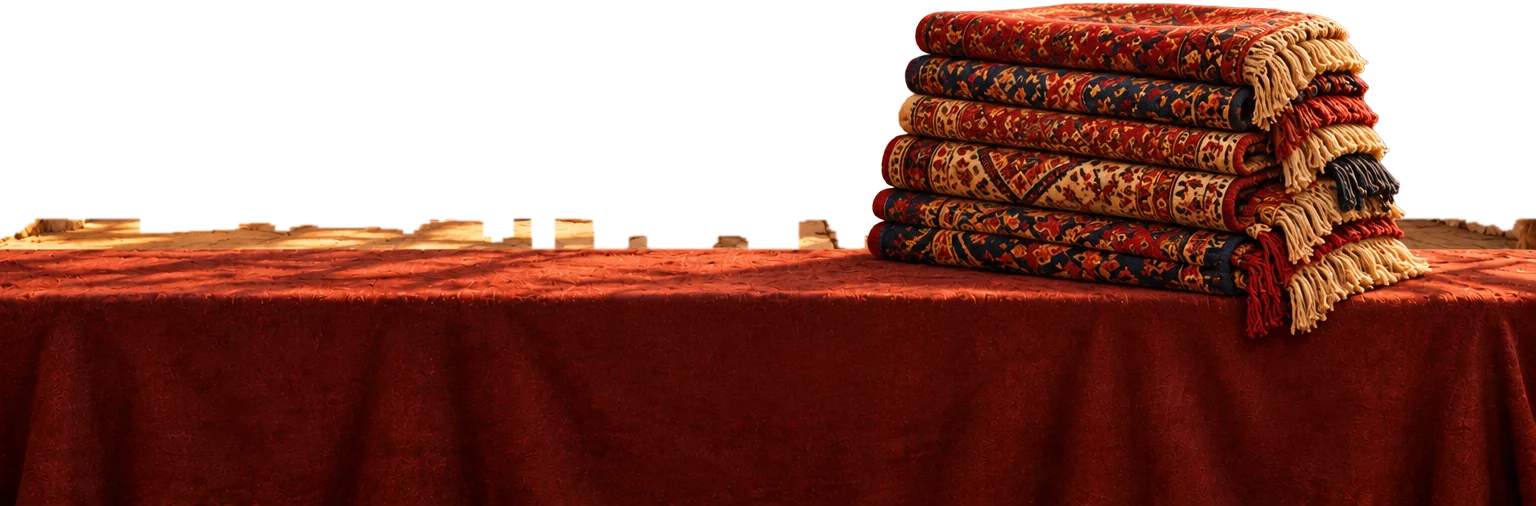
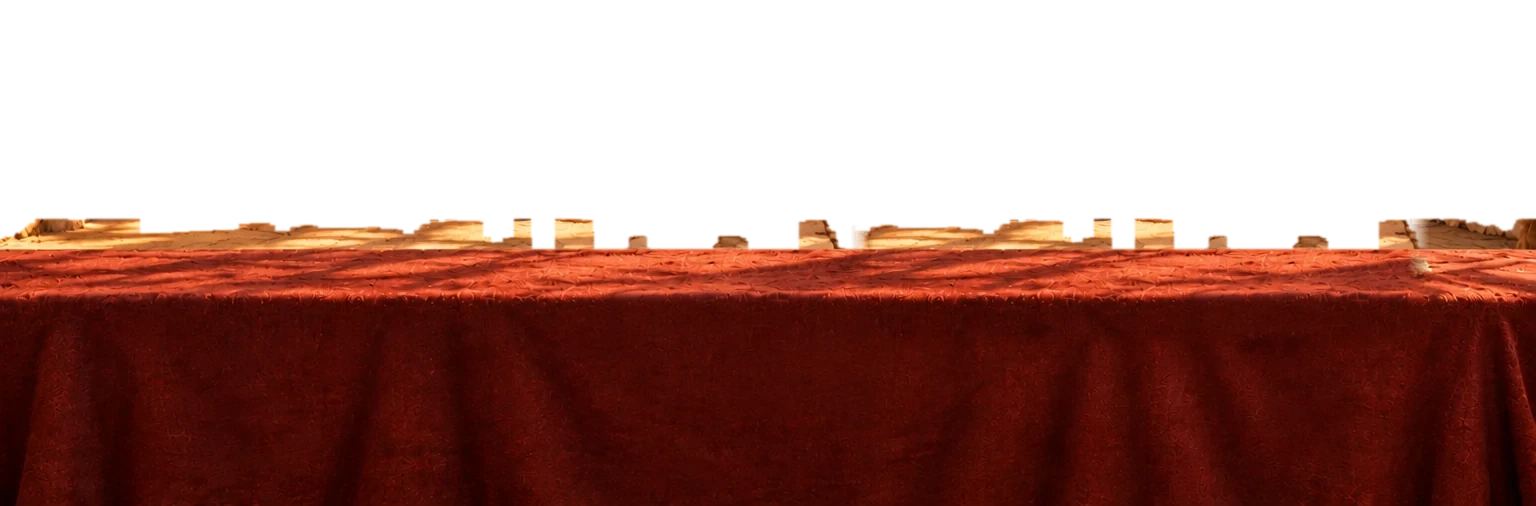
Stall: clear the rug pile off the counter; a buyer who walks out at once stays in view; toasts off the buttons
- counter-stall.webp: the stacked rugs painted out (original kept in art-src/stall)
- a buyer who finds nothing at their level no longer slides off before you see them
- the one-line toast sits under the header and lets taps through, instead of covering Buy

Claude-Session: https://claude.ai/code/session_01RsyrrUsDDaKTV5xQN8SsoM

Changed region(s): [[0.5312, 0.0, 0.9375, 0.6818]]

diff --git a/src/styles.css b/src/styles.css
@@ -502,7 +502,7 @@ table.ledger .neg { color: var(--bad); }
 .switch[aria-checked='true'] { background: #6b4b1e; }
 .switch[aria-checked='true']::after { left: 22px; background: var(--brass-hi); }
 
-.toast { position: fixed; left: 50%; bottom: 76px; transform: translateX(-50%); z-index: 90; background: rgba(20,12,6,0.96); border: 1px solid var(--line-strong); color: var(--parchment); padding: 8px 14px; border-radius: 4px; font-size: 15.5px; max-width: 90%; text-align: center; animation: rise2 0.3s ease; }
+.toast { position: fixed; left: 50%; top: calc(env(safe-area-inset-top, 0px) + 96px); pointer-events: none; transform: translateX(-50%); z-index: 90; background: rgba(20,12,6,0.96); border: 1px solid var(--line-strong); color: var(--parchment); padding: 8px 14px; border-radius: 4px; font-size: 15.5px; max-width: 90%; text-align: center; animation: rise2 0.3s ease; }
 @keyframes rise2 { from { opacity: 0; transform: translate(-50%, 8px); } }
 
 /* ---------- Wide / landscape ---------- */

diff --git a/src/components/StallEncounter/Scene.tsx b/src/components/StallEncounter/Scene.tsx
@@ -179,7 +179,7 @@ export function Scene({ enc, presented, view, onSkip, onCat, upgrades = [] }: Sc
           <img className="hero-at-stall hero-still" src="art/hero/hero-base-stall.webp" alt="" draggable={false} style={heroStyle} />
         )}
         {buyer && (
-          <div className={`buyer-figure has-photo${enc?.outcome ? ' leaving' : ''}`} data-testid="buyer-figure" data-buyer={buyer.id}>
+          <div className={`buyer-figure has-photo${enc?.outcome && !enc.mocked ? ' leaving' : ''}`} data-testid="buyer-figure" data-buyer={buyer.id}>
             <ScenePerson id={buyer.id} />
           </div>
         )}
